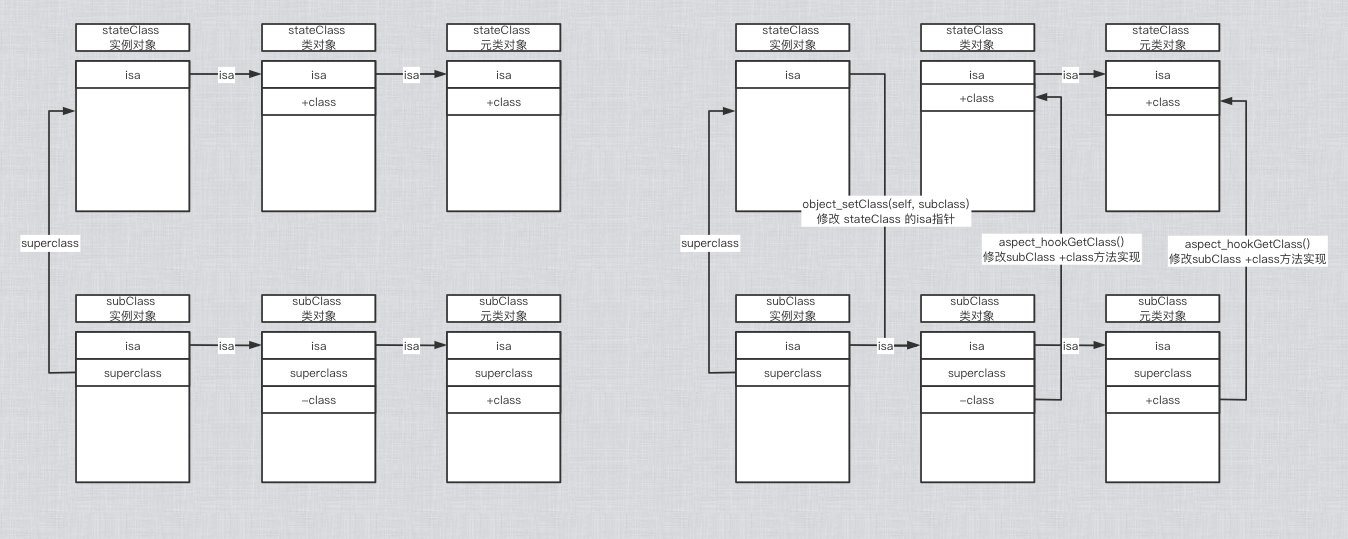
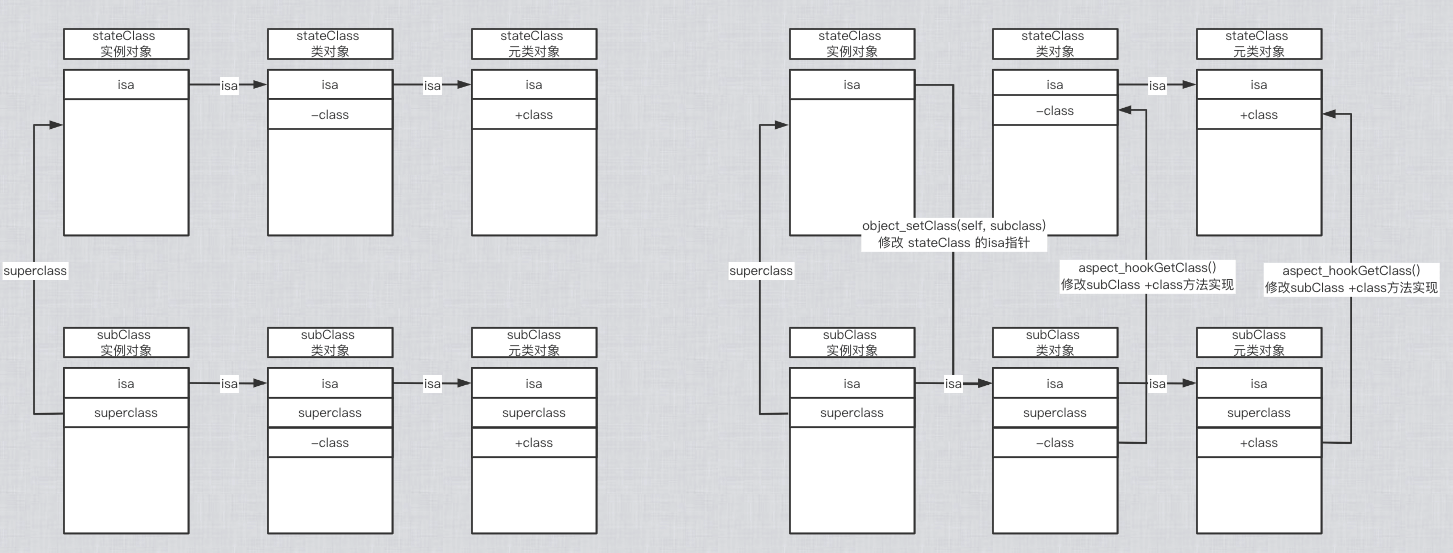
aspect_remove

Changed region(s): [[0.4985, 0.0297, 0.997, 0.9796], [0.0312, 0.5343, 0.4362, 0.9796], [0.0, 0.0297, 0.4362, 0.5343]]

diff --git a/SourceCodeAnalysis/Aspect/Aspects-02.md b/SourceCodeAnalysis/Aspect/Aspects-02.md
@@ -78,7 +78,7 @@ static id aspect_add(id self, SEL selector, AspectOptions options, id block, NSE
 
     __block AspectIdentifier *identifier = nil;
     aspect_performLocked(^{
-        // 判断当期那传入的 selector 是否允许被 hook
+        // 判断传入的 selector 是否允许被 hook
         if (aspect_isSelectorAllowedAndTrack(self, selector, options, error)) {
             // 用runtime的关联对象给 self 增加一个 aspectContainer 属性
             AspectsContainer *aspectContainer = aspect_getContainerForObject(self, selector);
@@ -315,7 +315,7 @@ if (identifier) {
   │    │       └──aspect_remove
   │    └── aspect_hookedGetClass
   ├── aspect_isMsgForwardIMP
-  ├──aspect_aliasForSelector(selector)
+  ├── aspect_aliasForSelector(selector)
   └── aspect_getMsgForwardIMP
 ```
 
@@ -350,11 +350,14 @@ Class object_getClass(id obj)
 
 ```Objective-C
 // 类对象调用 class 方法，直接返回本身
-// 实例对象调用 class 方法，class 方法的内部调用 object_getClass
+// 实例对象调用 class 方法，class 方法的内部调用 object_getClass，返回的是类对象
 Class statedClass = self.class;
-// object_getClass 获取的类的isa, 若是已经 hook 的类，self 的 isa 会指向其子类 xxx_Aspects_
+// object_getClass 获取对象的 isa 指针
+// 若 self 是元类对象，则 baseClass 是基类 NSObject 的元类对象
+// 若 self 是实例对象，则 baseClass == statedClass 是对应的类对象
+// 若 self 是实例对象，且已经被 hook，此时 self 的 isa 会指向其子类，也就是说 baseClass 是 xxx_Aspects_
+// 若 self 是实例对象，且已经 KVO 过，此时 self 的 isa 会指向其子类，也就是说 baseClass 是 NSKVONotifying_xxx
 Class baseClass = object_getClass(self);
-
 NSLog(@"statedClass:%@---baseClass:%@", statedClass, baseClass);
 
 // 若该类已被hook 则类名为 xxx_Aspects_, 否则 statedClass == baseClass (KVO除外)
@@ -376,8 +379,8 @@ NSString *className = NSStringFromClass(baseClass);
 打印 `statedClass` 和 `baseClass` 可以看到，第一次 hook 时 `statedClass` 和 `baseClass` 一样，都是类对象 `ViewController `。第二次打印 `baseClass` 是 `ViewController_Aspects_ `，也就是传进来的实例对象的 isa 指针被修改了(怎么修改后面会说)，指向 `ViewController_Aspects_ ` 类。
 
 ```
-// statedClass:ViewController---baseClass:ViewController
-// statedClass:ViewController---baseClass:ViewController_Aspects_
+// statedClass:ViewController---baseClass:ViewController   第一次 
+// statedClass:ViewController---baseClass:ViewController_Aspects_   第二次
 ```
 
 再往后看，先判断 `className` 是否包含 `_Aspects_ `，若包含说明已经类已经被 hook 直接返回。
@@ -421,7 +424,7 @@ if ([className hasSuffix:AspectsSubclassSuffix]) {
 
 先把 `aspect_hookClass` 看完，后面再说 `aspect_swizzleClassInPlace ` (hook 类方法或 hook 已经 KVO 过的对象的实例方法)。
 
-当 `className` 没有包含 `_Aspects_` 后缀，也不是元类，也不是KVO的中间类，即 `statedClass == baseClass` 的情况，动态创建一个名为 `xxx_Aspects_` 的子类。如下：
+当 `className` 没有包含 `_Aspects_` 后缀，也不是元类，也不是KVO的中间类，即 `statedClass == baseClass` 的情况，动态创建一个名为 `xxx_Aspects_` 的子类(hook 实例方法的情况)。如下：
 
 先调用 `objc_getClass` 查找是否有名为 `xxx_Aspects_` 的类。这时若返回 `nil`，就去调用 `objc_allocateClassPair` 创建这个类。`objc_getClass` 和 `objc_allocateClassPair` 在 objc4 中都可以找到源码，这里不做过多叙述。
 
@@ -463,7 +466,7 @@ static void aspect_hookedGetClass(Class class, Class statedClass) {
 	IMP newIMP = imp_implementationWithBlock(^(id self) {
 		return statedClass;
     });
-    // 替换 class 的 -class 方法的方法实现(IMP)，使其返回 statedClass 类型
+    // 替换 class 的 class 方法的方法实现(IMP)，使其返回 statedClass 类型
 	class_replaceMethod(class, @selector(class), newIMP, method_getTypeEncoding(method));
 }
 ```
@@ -492,7 +495,7 @@ NSLog(@"aspect_hookedGetClass之前获取subClass的isa-----%@-----%@", object_g
 ...
 // 修改subclass类的 -class 方法实现 使其指向 statedClass
 aspect_hookedGetClass(subclass, statedClass);
-// 修改subclass元类的 -class 方法实现 使其指向 statedClass
+// 修改subclass元类的 +class 方法实现 使其指向 statedClass
 aspect_hookedGetClass(object_getClass(subclass), statedClass);
 ...
 
@@ -898,29 +901,171 @@ if (!aspect_isMsgForwardIMP(targetMethodIMP)) {
 }
 ```
 
-由于我们将 `slector` 指向 `_objc_msgForward` 或 `_objc_msgForward_stret`，可想而知，当`selector` 被执行的时候，会触发消息转发从而进入 `forwardInvocation:`，而我们又对`forwardInvacation` 进行了 swizzling，因此最终转入我们自己的处理逻辑代码 `__ASPECTS_ARE_BEING_CALLED__` 中。
+由于我们将 `slector` 的方法实现指向 `_objc_msgForward` 或 `_objc_msgForward_stret`，可想而知，当`selector` 被执行的时候，会触发消息转发从而进入 `forwardInvocation:`，而我们又对`forwardInvacation` 进行了 swizzling，因此最终转入我们自己的处理逻辑代码 `__ASPECTS_ARE_BEING_CALLED__` 中。在 `__ASPECTS_ARE_BEING_CALLED__` 中会调用 hook 方法和原方法。
 
 
 <br>
 
 ### 三、`aspect_remove`
 
-```Objective-C
+有两个地方会调用 `remove`。一个是内部调用，在 `__ASPECTS_ARE_BEING_CALLED__` 方法中，若 `options` 为 `AspectOptionAutomaticRemoval`，则会在最后调用 `AspectIdentifier` 的 `remove` 方法。
 
+另外一个是外部调用，在调用 `aspect_hookSelector` 会返回一个 `id<AspectToken>` 类型的值，然后调用协议 `AspectToken ` 中的 `remove` 方法。
+
+这两种方式最终都会走到`AspectIdentifier` 的 `remove` 方法，并调用 `aspect_remove `，如下：
+
+```Objective-C
+- (BOOL)remove {
+    return aspect_remove(self, NULL);
+}
+
+static BOOL aspect_remove(AspectIdentifier *aspect, NSError **error) {
+    NSCAssert([aspect isKindOfClass:AspectIdentifier.class], @"Must have correct type.");
+
+    __block BOOL success = NO;
+    aspect_performLocked(^{
+        id self = aspect.object; // strongify
+        if (self) {
+            AspectsContainer *aspectContainer = aspect_getContainerForObject(self, aspect.selector);
+            success = [aspectContainer removeAspect:aspect];
+
+            aspect_cleanupHookedClassAndSelector(self, aspect.selector);
+            // destroy token
+            aspect.object = nil;
+            aspect.block = nil;
+            aspect.selector = NULL;
+        }else {
+            NSString *errrorDesc = [NSString stringWithFormat:@"Unable to deregister hook. Object already deallocated: %@", aspect];
+            AspectError(AspectErrorRemoveObjectAlreadyDeallocated, errrorDesc);
+        }
+    });
+    return success;
+}
+```
+
+`aspect_remove` 是整个 `aspect_add` 的逆过程，其函数调用栈如下：
+
+```Objective-C
+- aspect_remove(AspectIdentifier *aspect, NSError **error)
+  └── aspect_cleanupHookedClassAndSelector
+      ├──aspect_deregisterTrackedSelector
+      │   └── aspect_getSwizzledClassesDict
+      ├──aspect_destroyContainerForObject
+      └── aspect_undoSwizzleClassInPlace
+          └── _aspect_modifySwizzledClasses
+                └──aspect_undoSwizzleForwardInvocation
+```
+
+
+
+首先获取 `AspectsContainer`, 将三个数组中对应要移除的 `aspect` 都移除。
+
+```Objective-C
+AspectsContainer *aspectContainer = aspect_getContainerForObject(self, aspect.selector);
+// 移除数组中对应的 aspect
+success = [aspectContainer removeAspect:aspect];
+```
+
+然后来到 `remove` 最关键的过程就是 `aspect_cleanupHookedClassAndSelector(self, aspect.selector)` 移除之前 hook 的 `class` 和 `selector`。
+
+
+首先判断 `selector` 的方法实现是不是 `_objc_msgForward` 的方法实现，若是则将 `selector` 方法实现替换回来。如下：
+
+```Objective-C
+// Check if the method is marked as forwarded and undo that.
+Method targetMethod = class_getInstanceMethod(klass, selector);
+IMP targetMethodIMP = method_getImplementation(targetMethod);
+
+// 在 aspect_prepareClassAndHookSelector 方法中我们将 selector 的方法实现替换成 _objc_msgForward
+// 所以这里的 targetMethodIMP 就是 _objc_msgForward 的方法实现
+if (aspect_isMsgForwardIMP(targetMethodIMP)) {
+    // Restore the original method implementation.
+    
+    const char *typeEncoding = method_getTypeEncoding(targetMethod);
+    SEL aliasSelector = aspect_aliasForSelector(selector);
+    // 在 aspect_prepareClassAndHookSelector 方法中将 selector 的方法实现给了 aliasSelector
+    Method originalMethod = class_getInstanceMethod(klass, aliasSelector);
+    // 这里拿到的就是 selector(原方法) 的方法实现
+    IMP originalIMP = method_getImplementation(originalMethod);
+    NSCAssert(originalMethod, @"Original implementation for %@ not found %@ on %@", NSStringFromSelector(selector), NSStringFromSelector(aliasSelector), klass);
+    
+    // 将 selector 的方法实现替换回来
+    class_replaceMethod(klass, selector, originalIMP, typeEncoding);
+    AspectLog(@"Aspects: Removed hook for -[%@ %@].", klass, NSStringFromSelector(selector));
+}
+```
+
+然后调用 `aspect_deregisterTrackedSelector` 将 `AspectTracker` 移除。
+
+再判断若`container` 没有 `aspect`，则释放关联对象 `AspectsContainer`
+
+```Objective-C
+static void aspect_destroyContainerForObject(id<NSObject> self, SEL selector) {
+    NSCParameterAssert(self);
+    SEL aliasSelector = aspect_aliasForSelector(selector);
+    objc_setAssociatedObject(self, aliasSelector, nil, OBJC_ASSOCIATION_RETAIN);
+}
+```
+
+再判断是不是动态生成的子类`xxx_Aspects_`，若是则将重置 self 的 isa 指针，将它指向原来的类对象。如下:
+
+```Objective-C
+NSString *className = NSStringFromClass(klass);
+if ([className hasSuffix:AspectsSubclassSuffix]) {
+    Class originalClass = NSClassFromString([className stringByReplacingOccurrencesOfString:AspectsSubclassSuffix withString:@""]);
+    NSCAssert(originalClass != nil, @"Original class must exist");
+    // 重置 self 的 isa 指针
+    object_setClass(self, originalClass);
+    AspectLog(@"Aspects: %@ has been restored.", NSStringFromClass(originalClass));
+}
+```
+
+若是元类或 KVO 过的类，则调用 `aspect_undoSwizzleClassInPlace` 方法，如下：
+
+```Objective-C
+else {
+    // Class is most likely swizzled in place. Undo that.
+    if (isMetaClass) {
+        // 元类
+        aspect_undoSwizzleClassInPlace((Class)self);
+    }else if (self.class != klass) {
+        // KVO过的类
+        aspect_undoSwizzleClassInPlace(klass);
+    }
+}
 ```
 
 ```Objective-C
+static void aspect_undoSwizzleClassInPlace(Class klass) {
+    NSCParameterAssert(klass);
+    NSString *className = NSStringFromClass(klass);
 
+    _aspect_modifySwizzledClasses(^(NSMutableSet *swizzledClasses) {
+        if ([swizzledClasses containsObject:className]) {
+            aspect_undoSwizzleForwardInvocation(klass);
+            [swizzledClasses removeObject:className];
+        }
+    });
+}
 ```
+
+`aspect_undoSwizzleClassInPlace` 内部调用 `aspect_undoSwizzleForwardInvocation` 方法将 `forwardInvocation` 的方法实现还原。如下： 
 
 
 ```Objective-C
+static void aspect_undoSwizzleForwardInvocation(Class klass) {
+    NSCParameterAssert(klass);
+    Method originalMethod = class_getInstanceMethod(klass, NSSelectorFromString(AspectsForwardInvocationSelectorName));
+    Method objectMethod = class_getInstanceMethod(NSObject.class, @selector(forwardInvocation:));
+    // There is no class_removeMethod, so the best we can do is to retore the original implementation, or use a dummy.
+    IMP originalImplementation = method_getImplementation(originalMethod ?: objectMethod);
+    // 将 forwardInvocation: 的方法实现还原
+    class_replaceMethod(klass, @selector(forwardInvocation:), originalImplementation, "v@:@");
 
+    AspectLog(@"Aspects: %@ has been restored.", NSStringFromClass(klass));
+}
 ```
 
-```Objective-C
-
-```
 
 <br>
 
